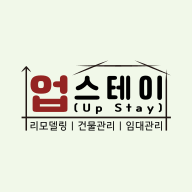
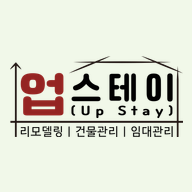
ui(meta): PWA 아이콘을 any/maskable 분리 + SVG trim으로 최대 크기 활용
PR #22의 padding 20→10% 변경이 시각적 체감 부족. 이번엔 두 방향으로
한 번 더 키움:

1. SVG trim 적용
   - logo.svg viewBox 안의 미세 여백(가로 2.8%, 세로 5.7%)을 sharp.trim()
     으로 제거. 실제 그래픽 bounding box만 사용.

2. any / maskable 자산 분리
   - icon-{192,512}.png (purpose: any, padding 5%)
     사각 마스크 OS / 마스크 미지원 OS에서 거의 풀사이즈로 표시.
   - icon-maskable-{192,512}.png (purpose: maskable, padding 10%)
     원/물방울/둥근사각 마스크에서도 안전 영역(80%) 한계로 잘림 방지.

manifest.ts에 두 종류 모두 등록 → 운영체제가 환경에 맞춰 더 큰 쪽 선택.

근본 한계: 로고가 가로 2:1 비율이라 정사각 캔버스에선 세로 ~50%만
사용. 그 이상 크게 하려면 디자이너 측 정사각형 마크 별도 디자인이 필요.

Changed region(s): [[0.0312, 0.2812, 0.9688, 0.7188]]

diff --git a/app/manifest.ts b/app/manifest.ts
@@ -14,11 +14,12 @@ export default function manifest(): MetadataRoute.Manifest {
     theme_color: "#F1F8E9",
     lang: "ko",
     icons: [
-      // 같은 PNG를 any + maskable 두 번 등록 — 표준 PWA 권장 패턴.
+      // any: 사각 마스크 OS에서 거의 풀사이즈로 로고 표시 (패딩 5%).
       { src: "/icon-192.png", sizes: "192x192", type: "image/png", purpose: "any" },
-      { src: "/icon-192.png", sizes: "192x192", type: "image/png", purpose: "maskable" },
       { src: "/icon-512.png", sizes: "512x512", type: "image/png", purpose: "any" },
-      { src: "/icon-512.png", sizes: "512x512", type: "image/png", purpose: "maskable" },
+      // maskable: 원/물방울/둥근사각 등 어떤 마스크에서도 잘림 없도록 안전 영역(80%) 준수.
+      { src: "/icon-maskable-192.png", sizes: "192x192", type: "image/png", purpose: "maskable" },
+      { src: "/icon-maskable-512.png", sizes: "512x512", type: "image/png", purpose: "maskable" },
     ],
   };
 }
